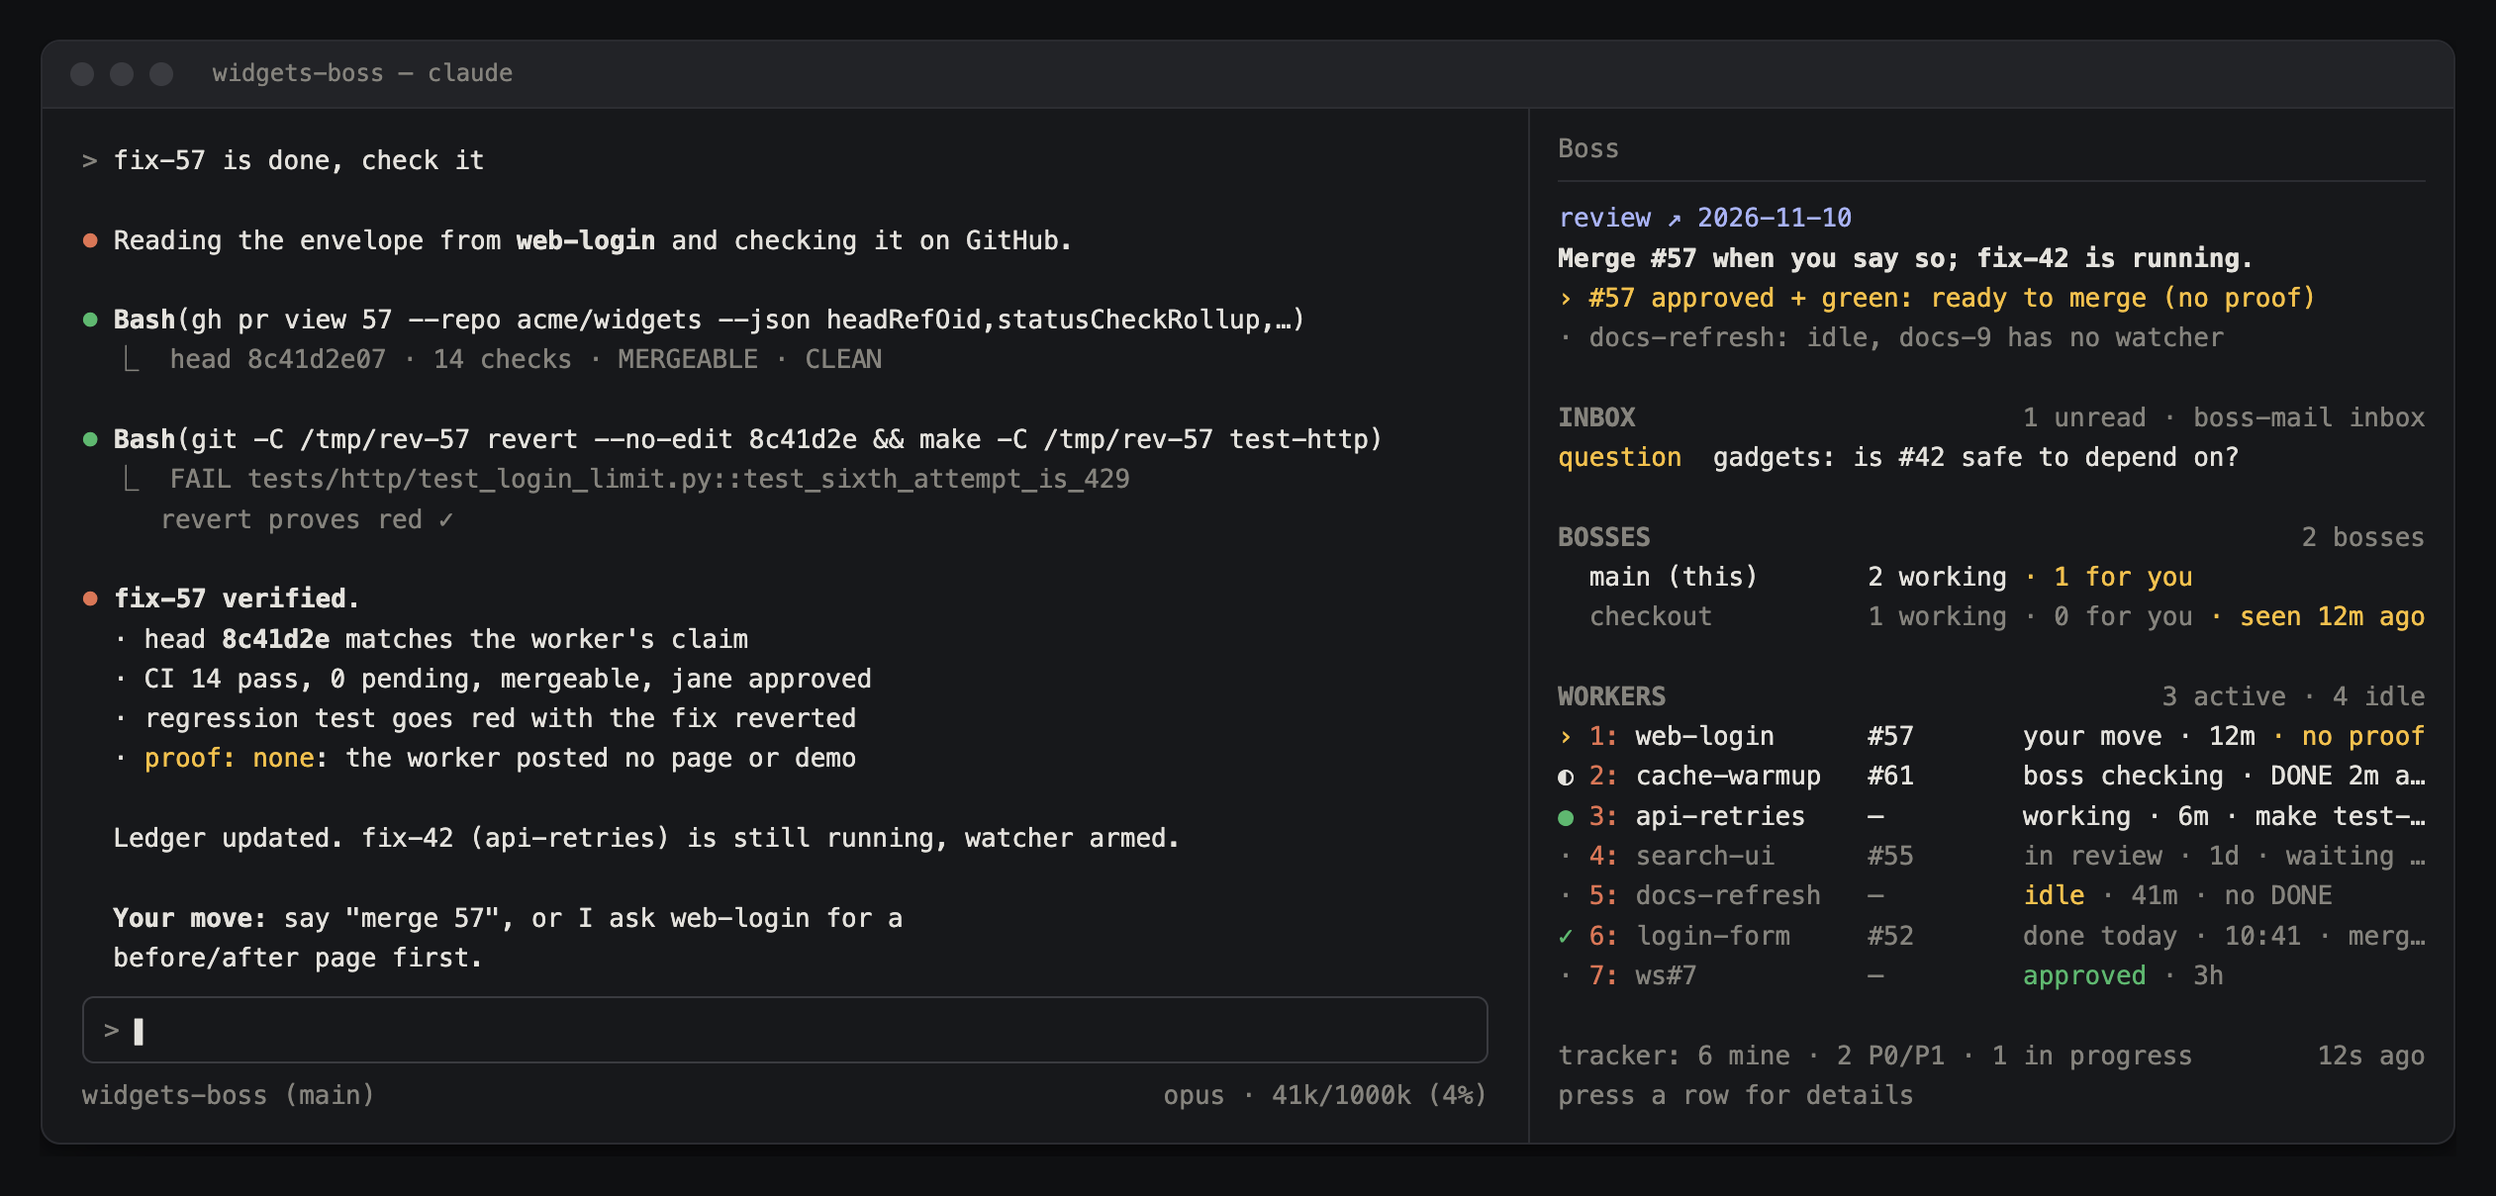
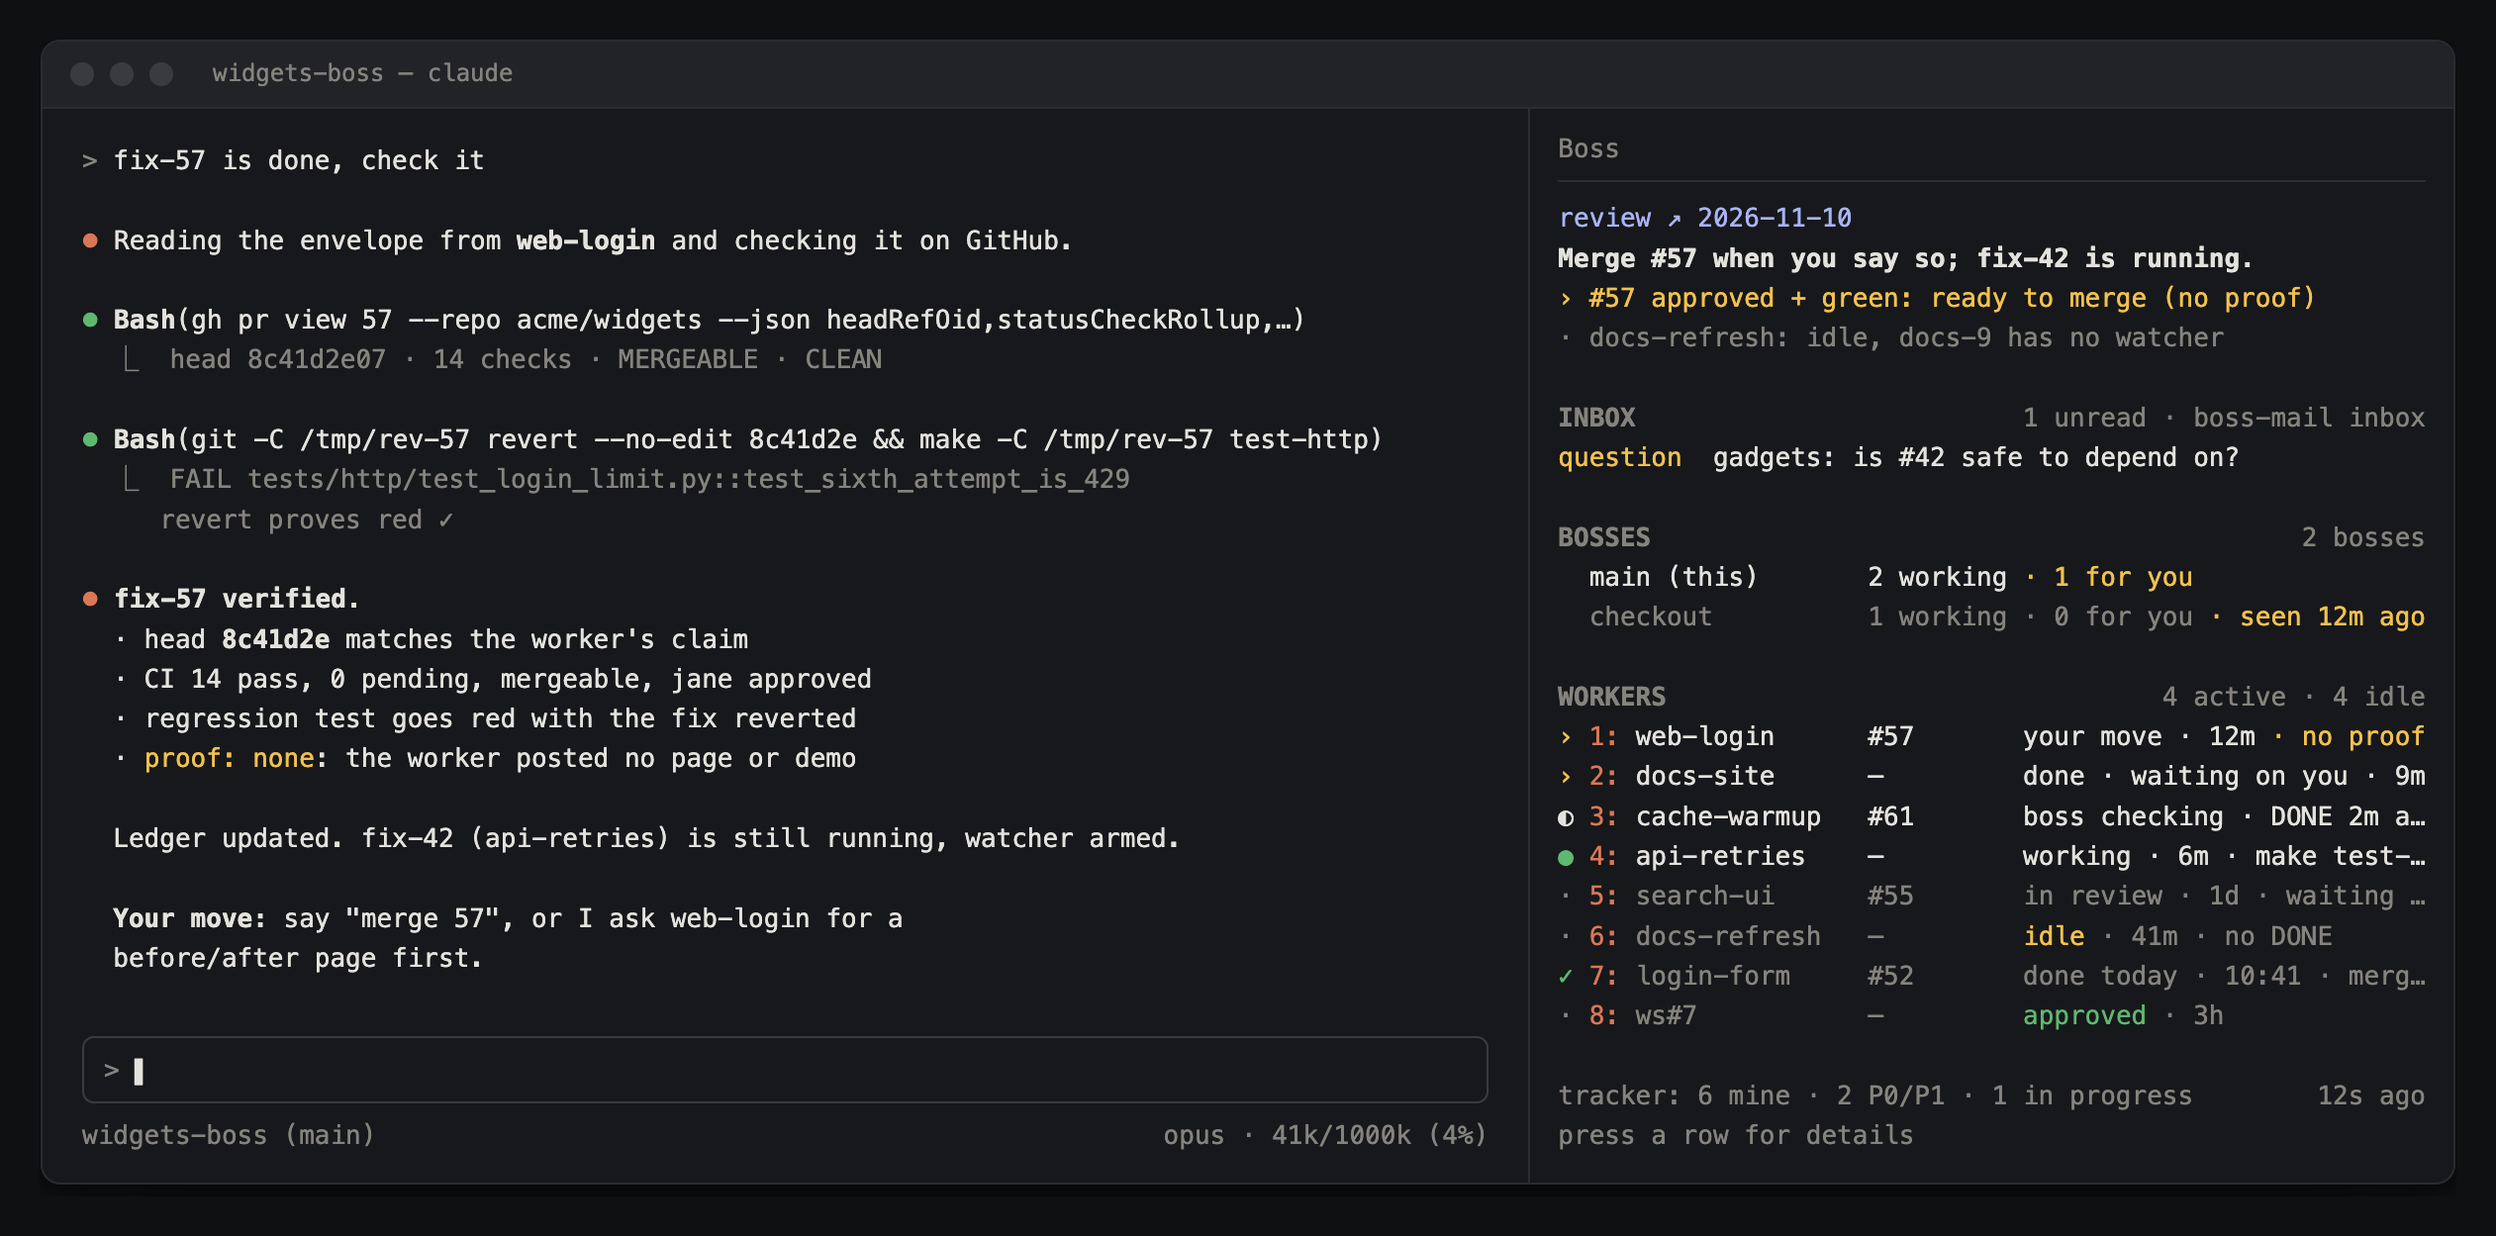
boss-deck 0.7.1 docs: sessions, waiting stage, mail fallback; re-rendered pane shots

diff --git a/docs/src/shots.html b/docs/src/shots.html
@@ -115,7 +115,7 @@ const row = (mark, mc, n, name, tag, ps, dim, bold) =>
   line(seg(pad(mark, 2), mc || (dim ? 'd' : '')), seg(n + ': ', 'hk'), seg(pad(name.slice(0, 13), 15), (dim ? 'd' : '') + (bold ? ' b' : '')),
     seg(pad(tag, 10), dim ? 'd' : ''), parts(ps, W - 30, dim))
 // A BOSSES row has no hotkey: domain (or main) and "(this)", then its counts.
-const boss = (name, ps, dim) => line(seg('  '), seg(pad(name, 18), dim ? 'd' : ''), parts(ps, W - 20, dim))
+const boss = (name, ps, dim, bold) => line(seg('  '), seg(pad(name, 18), (dim ? 'd' : '') + (bold ? ' b' : '')), parts(ps, W - 20, dim))
 const detail = (label, value, c = 'd') => line(seg('    ' + pad(label, 9), 'd'), seg(value, c))
 
 const head = () =>
@@ -124,9 +124,13 @@ const head = () =>
 const inbox = () =>
   section('inbox', '1 unread · boss-mail inbox') +
   line(seg(pad('question', 10), 'wa'), seg('gadgets: is #42 safe to depend on?'))
-const bosses = () =>
+const bosses = (open) =>
   section('bosses', '2 bosses') +
-  boss('main (this)', [['2 working'], ['1 for you', 'wa']]) +
+  boss('main (this)', [['2 working'], ['1 for you', 'wa']], false, open) +
+  (open ? detail('next', 'Merge #57 when you say so; fix-42 is running.') +
+    detail('sessions', 'api research · idle · 41m · research-1') +
+    detail('', 'deploy check · working · 6m') +
+    detail('seen', '8s ago') + '\n' : '') +
   boss('checkout', [['1 working'], ['0 for you'], ['seen 12m ago', 'wa']], true)
 // The footer: tracker and hint flow left and wrap whole, the age stays right on the first line.
 const foot = (ago, tracker) => '\n' + (tracker
@@ -134,9 +138,10 @@ const foot = (ago, tracker) => '\n' + (tracker
   : justify('press a row for details', `${ago} ago`, 'd', 'd'))
 
 const active = (open) =>
-  section('workers', '3 active · 4 idle') +
+  section('workers', '4 active · 4 idle') +
   row('›', 'wa', 1, 'web-login', '#57', [['your move'], ['12m'], ['no proof', 'wa']]) +
-  row('◐', '', 2, 'cache-warmup', '#61', [['boss checking'], ['DONE 2m ago'], ['verifying']], false, open) +
+  row('›', 'wa', 2, 'docs-site', '—', [['done · waiting on you'], ['9m'], ['no PR']]) +
+  row('◐', '', 3, 'cache-warmup', '#61', [['boss checking'], ['DONE 2m ago'], ['verifying']], false, open) +
   (open ? detail('10:02', 'sent  fix-61, watcher armed') +
     detail('10:31', 'DONE  fix-61: cache warms before traffic') +
     detail('next', 'boss: verify, then mark the PR ready') +
@@ -153,12 +158,12 @@ const active = (open) =>
     detail('doing', 'Ran make test-http') +
     detail('context', '188k · 19%') +
     line(seg('    '), seg('page ↗', 'su'), seg('  '), seg('demo ↗', 'su'), seg('  '), seg('open workspace ↗', 'su'), seg('  '), seg('open on GitHub ↗', 'su')) + '\n' : '') +
-  row('●', 'ok', 3, 'api-retries', '—', [['working'], ['6m'], ['make test-http']])
+  row('●', 'ok', 4, 'api-retries', '—', [['working'], ['6m'], ['make test-http']])
 const idle = () =>
-  row('·', '', 4, 'search-ui', '#55', [['in review'], ['1d'], ['waiting on jane']], true) +
-  row('·', '', 5, 'docs-refresh', '—', [['idle', 'wa'], ['41m'], ['no DONE']], true) +
-  row('✓', 'ok', 6, 'login-form', '#52', [['done today'], ['10:41'], ['merged, retired']], true) +
-  row('·', '', 7, 'ws#7', '—', [['approved', 'ok'], ['3h']], true)
+  row('·', '', 5, 'search-ui', '#55', [['in review'], ['1d'], ['waiting on jane']], true) +
+  row('·', '', 6, 'docs-refresh', '—', [['idle', 'wa'], ['41m'], ['no DONE']], true) +
+  row('✓', 'ok', 7, 'login-form', '#52', [['done today'], ['10:41'], ['merged, retired']], true) +
+  row('·', '', 8, 'ws#7', '—', [['approved', 'ok'], ['3h']], true)
 
 const main =
   head() +
@@ -167,7 +172,7 @@ const main =
   inbox() + bosses() + active(false) + idle() +
   foot('12s', 'tracker: 6 mine · 2 P0/P1 · 1 in progress')
 
-const peek = head() + bosses() + active(true) + idle() + foot('4s')
+const peek = head() + bosses(true) + active(true) + idle() + foot('4s')
 
 // The worker view: a dispatched worker's own session. Label column 7 wide, like register.tsx's field().
 const field = (label, value, c = 'd') => line(seg(pad(label, 7), 'd'), seg(value, c))

diff --git a/README.md b/README.md
@@ -270,7 +270,7 @@ After a batch of merges, or when you ask, the boss publishes a **review page**: 
 
 ## Boss mail
 
-Bosses message each other with `bin/boss-mail`. A message is a JSON file in the target boss's `inbox/`. Addressed to a project, it reaches every live boss of that project.
+Bosses message each other with `bin/boss-mail`. A message is a JSON file in the target boss's `inbox/`. Addressed to a project, it reaches every live boss of that project, else every registered one, else (a boss that never wrote a heartbeat) every `<project>/bosses/*/` directory, so mail is never lost; it fails only when the project has no `bosses/` folder.
 
 Two bosses, `widgets` and `gadgets`. The gadgets boss needs to know whether a widgets PR it depends on is safe:
 
@@ -333,12 +333,13 @@ A quiet pane: grey by default, color only for what needs you. Here with a worksp
 
 - **The top line** is this boss's last "Your move", read from its `next.txt`.
 - **INBOX** appears while something from outside this session is unread: today, boss mail. Each message is one line (its kind in yellow, then sender and subject), up to five, then `+N more`. While mail is unread, every prompt also carries one context line naming it, which the model reads and you don't see. It reads the inbox folder only, so it costs nothing.
-- **BOSSES** lists this project's live bosses, this one first: the main boss (`main`) and its domain bosses (by domain, see the template's section 15), `(this)` on the current one, then `N working · M for you`, and how long since its heartbeat once that is more than five minutes old. Each refresh's heartbeat carries the boss's domain and its next line. A domain boss's pane covers only its sidebar folder (the workspace tag in a `Folder: <tag>` line of `CLAUDE.local.md`, else the domain name): WORKERS, watchers, attention lines and its heartbeat counts keep that folder's workspaces and their PRs, with no PR-only rows. The main boss sees every folder. Press a boss for its next line, the first lines of its domain's `<name>-state.md`, when it was last seen, and **`open workspace ↗`**.
-- **WORKERS** has one row per dispatched workspace: its name, its PR joined by branch (or `—`), then stage · time in stage · note. Active rows come first, the idle ones after them, dim; the header counts both (`3 active · 4 idle`):
+- **BOSSES** lists this project's live bosses, this one first: the main boss (`main`) and its domain bosses (by domain, see the template's section 15), `(this)` on the current one, then `N working · M for you`, and how long since its heartbeat once that is more than five minutes old. Each refresh's heartbeat carries the boss's domain and its next line. A domain boss's pane covers only its sidebar folder (the workspace tag in a `Folder: <tag>` line of `CLAUDE.local.md`, else the domain name): WORKERS, watchers, attention lines and its heartbeat counts keep that folder's workspaces and their PRs, with no PR-only rows. The main boss sees every folder. Press a boss for its next line, the first lines of its domain's `<name>-state.md`, when it was last seen, and **`open workspace ↗`**. This boss's own workspace is never a worker: the research and ops sessions that run as extra agent terminals in it are listed in its expanded row as `sessions`, one line per terminal (its title, agent state, age, and the ledger row's task text when a row names that terminal as `<workspace> / <terminal>`); the terminal the boss itself runs in is left out. A terminal's age counts from the first refresh that saw it.
+- **WORKERS** has one row per dispatched workspace: its name, its PR joined by branch (or `—`), then stage · time in stage · note. Active rows come first, the idle ones after them, dim; the header counts both (`4 active · 4 idle`):
 
   | Stage | When | Row |
   |---|---|---|
   | your move | its PR is approved and green | `› web-login  #57  your move · 12m · say merge` |
+| done · waiting on you | the boss logged `checked` or `ready` after the DONE, the agent is idle, yet its PR stays a draft (some projects keep every PR draft) or it has none | `› docs-site  —  done · waiting on you · 9m · no PR` |
   | boss checking | a DONE envelope (screen or PR comment) the ledger has not verified, or a ready PR whose CI went red | `◐ cache-warmup  #61  boss checking · DONE 2m ago · verifying` |
   | working | the agent is working (green `●`) | `● api-retries  —  working · 6m · make test-http` |
   | blocked | the agent is blocked (red `■`) | `■ api-retries  —  blocked · 1m · needs a token` |
@@ -350,7 +351,7 @@ A quiet pane: grey by default, color only for what needs you. Here with a worksp
 - **Press a row** (or its key, `1`–`9`, once the pane has focus) to expand it. A workspace shows its timed stage history (`10:02  sent  watcher armed`, `10:31  DONE  PR #42 draft`) and the `next` step and who takes it; then, when it has a PR, the PR's title, CI (pass / fail / pending with the failing names), mergeability, reviews, size, branch → base and head; then its worker's own report: `tasks 3 of 5 · now <in-progress task>` (from `<worktree>/.boss-worker/status.json`, which the worker's pane writes) and the last two lines of its `.boss-worker/notes.md`; then what it's doing now, context use (yellow at 60% or more) and a missing watcher. Last comes one link row: its proof (`page ↗`, `demo ↗`, `artifact ↗`, from the ledger's Proof column and the PR body and comments: Superset pages, claude.ai artifacts, video files, GitHub attachments and Loom), **`open workspace ↗`** (`superset workspaces open`) and **`open on GitHub ↗`**. A PR-only row shows the PR part. Press again to fold it.
 - **`review ↗ <date>`** at the top opens the latest review page (this boss's `review.txt`).
 - **The footer** shows `tracker: N mine · N P0/P1 · N in progress` when a tracker is synced (nothing otherwise), `N new shared lessons` added since this boss's last session, and when the pane last updated.
-- **Colors:** a working worker's dot is green, a blocked one's square red, your move's `›` yellow, done today's `✓` green. A PR-only row's status: green approved, blue waiting on a reviewer, yellow conflict, red CI, grey draft. An approved, green PR with no proof shows **`no proof`** in yellow, the only proof-related color. A boss's `for you` count and a stale boss's age are yellow.
+- **Colors:** a working worker's dot is green, a blocked one's square red, your move's and waiting-on-you's `›` yellow, done today's `✓` green. A PR-only row's status: green approved, blue waiting on a reviewer, yellow conflict, red CI, grey draft. An approved, green PR with no proof shows **`no proof`** in yellow, the only proof-related color. A boss's `for you` count and a stale boss's age are yellow.
 - **Refresh:** every 60 s, plus right after the boss dispatches, merges, comments or syncs; those refreshes skip the 5-minute PR cache, so a merged PR drops off at once. `/boss-deck` refreshes on demand. The pane writes no status line.
 - **Messages:** each `superset terminals send --text` the boss runs is logged as that workspace's `msg` event (first 200 characters; key-only `--keys` sends are not), for the worker's FROM BOSS.
 

diff --git a/mods/boss-deck/README.md b/mods/boss-deck/README.md
@@ -6,8 +6,8 @@ A quiet, read-only Claude Code pane for a boss session. It shows:
 - **inbox**: unread input from outside the session (today, boss mail), one line per message with its kind in yellow; shown only while something is unread, and every prompt carries one context line naming it
 - **now**: this boss's one next action, from its `next.txt`
 - **what needs you**: blocked workers, idle workers whose dispatch has no watcher, stale watchers, red CI, and PRs that are approved and green
-- **bosses**: this project's live bosses from the registry, this one first: `main` and its domain bosses (a `Domain: <name>` line in `CLAUDE.local.md`), `(this)` on the current one, `N working · M for you`, and the heartbeat age once it is stale. A domain boss's pane covers only its sidebar folder (`Folder: <tag>` in `CLAUDE.local.md`, else the domain name): its workspaces, their watchers and PRs, no PR-only rows. Press one for its next line, the first lines of its domain state file, when it was last seen, and `open workspace ↗`
-- **workers**: one row per dispatched Paradev workspace: name, its PR joined by branch (or `—`), then stage · time in stage · note. Active first (your move, boss checking, working, blocked), then idle and dim (in review, idle without a DONE, done today: merged or retired today, at most 5); the header reads `N active · M idle`. Time in stage comes from the boss's `events.jsonl` (`bin/boss-event`). A tracked PR no workspace owns is an idle row with its tag as the name and its status (green approved, blue waiting on a reviewer, yellow conflict, red CI, grey draft; an approved, green PR without proof reads **no proof** in yellow); PRs idle for 10+ days fold into one line. Press a row (or its key, 1–9) to expand it: the workspace's timed stage history and next step, its PR's title, CI, mergeability, reviews, size, branch and head, its worker's task progress (`tasks 3 of 5 · now …`, from `<worktree>/.boss-worker/status.json`) and the last two lines of its `.boss-worker/notes.md`, what it is doing, context use, and one link row: proof (`page ↗`, `demo ↗`, `artifact ↗`), `open workspace ↗`, `open on GitHub ↗`
+- **bosses**: this project's live bosses from the registry, this one first: `main` and its domain bosses (a `Domain: <name>` line in `CLAUDE.local.md`), `(this)` on the current one, `N working · M for you`, and the heartbeat age once it is stale. A domain boss's pane covers only its sidebar folder (`Folder: <tag>` in `CLAUDE.local.md`, else the domain name): its workspaces, their watchers and PRs, no PR-only rows. Press one for its next line, the first lines of its domain state file, when it was last seen, and `open workspace ↗`. This boss's own workspace is never listed as a worker; its other agent terminals (research and ops sessions) are `sessions` lines in its expanded row: terminal title, agent state, age, and the ledger task text when a row names that terminal
+- **workers**: one row per dispatched Paradev workspace: name, its PR joined by branch (or `—`), then stage · time in stage · note. Active first (your move, **done · waiting on you** — the boss logged `checked` or `ready`, yet the PR stays a draft or there is none — boss checking, working, blocked), then idle and dim (in review, idle without a DONE, done today: merged or retired today, at most 5); the header reads `N active · M idle`. Time in stage comes from the boss's `events.jsonl` (`bin/boss-event`). A tracked PR no workspace owns is an idle row with its tag as the name and its status (green approved, blue waiting on a reviewer, yellow conflict, red CI, grey draft; an approved, green PR without proof reads **no proof** in yellow); PRs idle for 10+ days fold into one line. Press a row (or its key, 1–9) to expand it: the workspace's timed stage history and next step, its PR's title, CI, mergeability, reviews, size, branch and head, its worker's task progress (`tasks 3 of 5 · now …`, from `<worktree>/.boss-worker/status.json`) and the last two lines of its `.boss-worker/notes.md`, what it is doing, context use, and one link row: proof (`page ↗`, `demo ↗`, `artifact ↗`), `open workspace ↗`, `open on GitHub ↗`
 - **messages**: each `superset terminals send --text` the boss runs is logged as that workspace's `msg` event (key-only sends are not), for the worker's FROM BOSS
 - **footer**: a tracker summary (`tracker: N mine · N P0/P1 · N in progress`) only when one is synced, and **N new shared lessons** when shared lessons were added since this boss's last session
 
